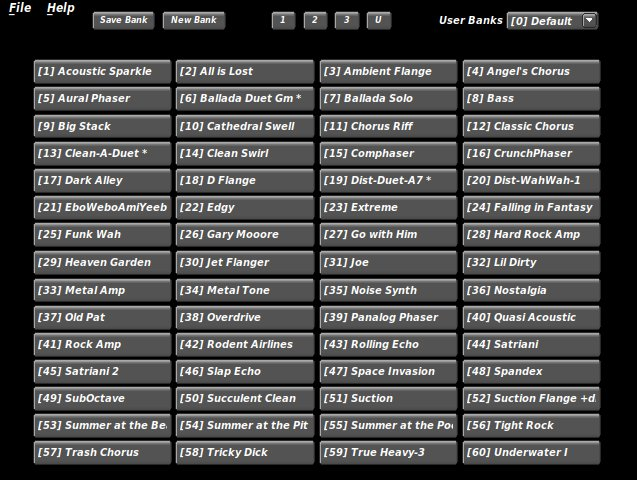
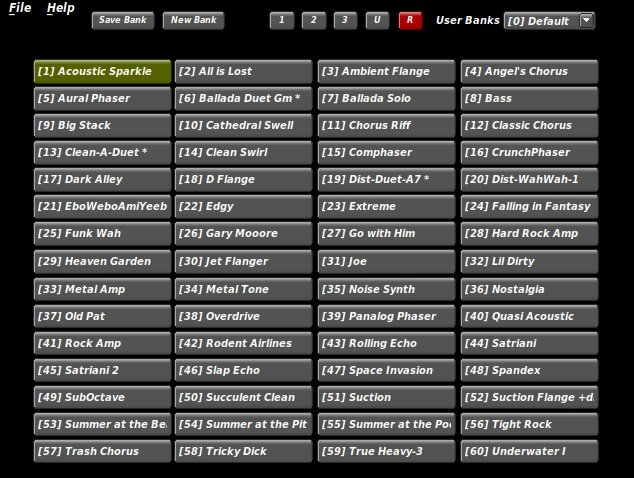
Update help for 'R' Bank window button. Update help .jpg. Tool tip cleanup.

diff --git a/doc/help/general.html b/doc/help/general.html
@@ -421,6 +421,14 @@ indicating the file has been saved and the name and path</p>
 <p><b>New Bank</b><p/>
 <p>Select button for clearing the bank presets buttons for new user banks.</p>
 
+<p><b>R</b></p>
+<p>Reload the User Banks. <b>WARNING:</b> This will re-load the currently active bank.
+You will not be prompted for any modified changes. All modifications to the currently
+active bank will be lost! Select this button to refresh the "User Banks" choice list
+and update all user banks for any changes made since the program started. Useful if
+there have been changes to the user banks outside the current program instance. For
+example, from a second rakarrack-plus instance.</p>
+
 <p><b>MIDI Program Select</b></p>
 <p>The number in [XX] brackets preceeding the label is the MIDI program change
     number that must be sent to select the indicated preset.</p>
